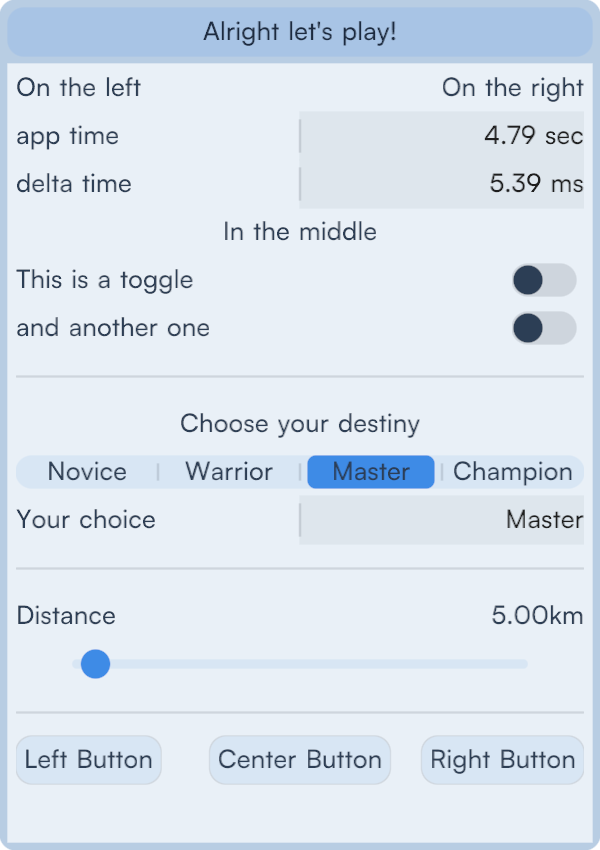
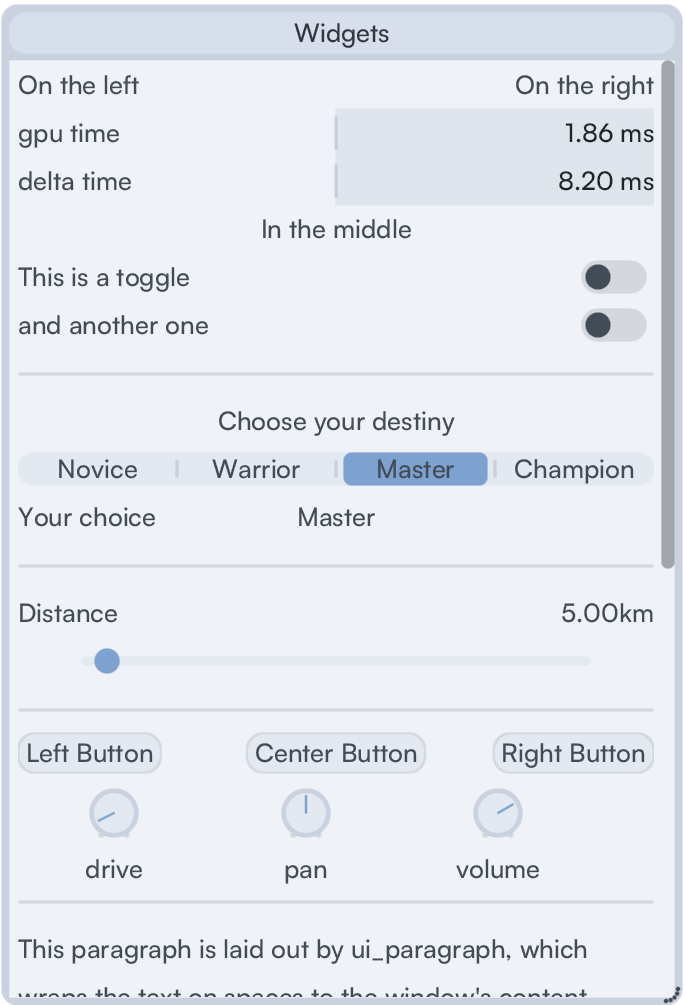
fixed slide square-thumb bug, hover animation and updated screenshot

Changed region(s): [[0.0, 0.0, 1.0, 1.0], [0.36, 0.1224, 0.63, 0.3059], [0.75, 0.4588, 0.93, 0.4894]]

diff --git a/lean_ui.c b/lean_ui.c
@@ -82,6 +82,7 @@ struct ui_context
     void* dragging_object;
     ui_animation animation;
     ui_hover hover;
+    ui_hover thumb_hover;
     ui_vec2 dragging_offset;
     ui_rect layout;
     ui_rect content_rect;
@@ -717,13 +718,13 @@ void ui_slider(ui_context* ctx, const char* label, float min_value, float max_va
         .height = ctx->padding
     };
 
-    // thumb geometry
+    // thumb geometry, a disc centered on the thumb position
     float norm_value = (*value - min_value) / (max_value - min_value);
     float thumb_x = norm_value * track_rect.width + track_rect.x;
     float thumb_size = ctx->font_height - 4.f;
     float half_size = thumb_size * .5f;
 
-    ui_rect thumb_rect = 
+    ui_rect thumb_rect =
     {
         .x = thumb_x - half_size,
         .y = center_y - half_size,
@@ -734,6 +735,24 @@ void ui_slider(ui_context* ctx, const char* label, float min_value, float max_va
     const bool track_hovered = ui_hovered(ctx, &track_rect);
     const bool thumb_hovered = ui_hovered(ctx, &thumb_rect);
 
+    // hover grow animation, eased in and out
+    if (thumb_hovered)
+    {
+        if (ctx->thumb_hover.widget != value)
+            ctx->thumb_hover = (ui_hover) {.widget = value, .t = 0.f};
+        ctx->thumb_hover.t = fminf(1.f, ctx->thumb_hover.t + ctx->delta_time / HOVER_DURATION);
+    }
+    else if (ctx->thumb_hover.widget == value)
+    {
+        ctx->thumb_hover.t -= ctx->delta_time / HOVER_DURATION;
+        if (ctx->thumb_hover.t <= 0.f)
+            ctx->thumb_hover = (ui_hover) {.widget = NULL, .t = 0.f};
+    }
+    const float hover_grow = (ctx->thumb_hover.widget == value) ? ctx->thumb_hover.t : 0.f;
+
+    float grown_size = thumb_size + 4.f * hover_grow;
+    float grown_half = grown_size * .5f;
+
     // track change color on mouse-over
     uint32_t track_color = (track_hovered || (ctx->dragging_object == value)) ? ctx->colors.widget_hover : ctx->colors.widget_bg;
     ctx->renderer.draw_box(track_rect.x, track_rect.y, track_rect.width, track_rect.height,
@@ -742,7 +761,6 @@ void ui_slider(ui_context* ctx, const char* label, float min_value, float max_va
     // thumb mouse-over and dragging
     if (thumb_hovered)
     {
-        expand_rect(&thumb_rect, 2.f);
         if (ctx->mouse_button == button_pressed)
         {
             ctx->dragging_object = value;
@@ -774,13 +792,16 @@ void ui_slider(ui_context* ctx, const char* label, float min_value, float max_va
     thumb_x = clamp_float(track_rect.x, track_rect.x + track_rect.width, thumb_x);
 
     // keep the thumb geometry in sync with the (possibly) updated thumb position
-    thumb_rect.x = thumb_x - half_size;
+    thumb_rect.x = thumb_x - grown_half;
+    thumb_rect.y = center_y - grown_half;
+    thumb_rect.width = grown_size;
+    thumb_rect.height = grown_size;
 
     norm_value = (thumb_x - track_rect.x) / track_rect.width;
     *value = norm_value * (max_value - min_value) + min_value;
     *value = (step>0.f) ? roundf(*value / step) * step : *value;
 
-    ctx->renderer.draw_box(thumb_rect.x, thumb_rect.y, thumb_rect.width, thumb_rect.height, half_size,
+    ctx->renderer.draw_box(thumb_rect.x, thumb_rect.y, thumb_rect.width, thumb_rect.height, grown_half,
                            ctx->colors.accent, ctx->renderer.user);
 
     ui_newline(ctx);

diff --git a/README.md b/README.md
@@ -92,10 +92,6 @@ Suggested values:
 | sand : terracotta accent | 78 | 53 | 1.0 | false | 
 | grey : pure neutral | any | 250 | 0 | false | 
 
-```c
-ui_set_palette(ctx, 78.f, 53.f, 1.f, false); // sand
-```
-
 ---
 
 ## Integration
